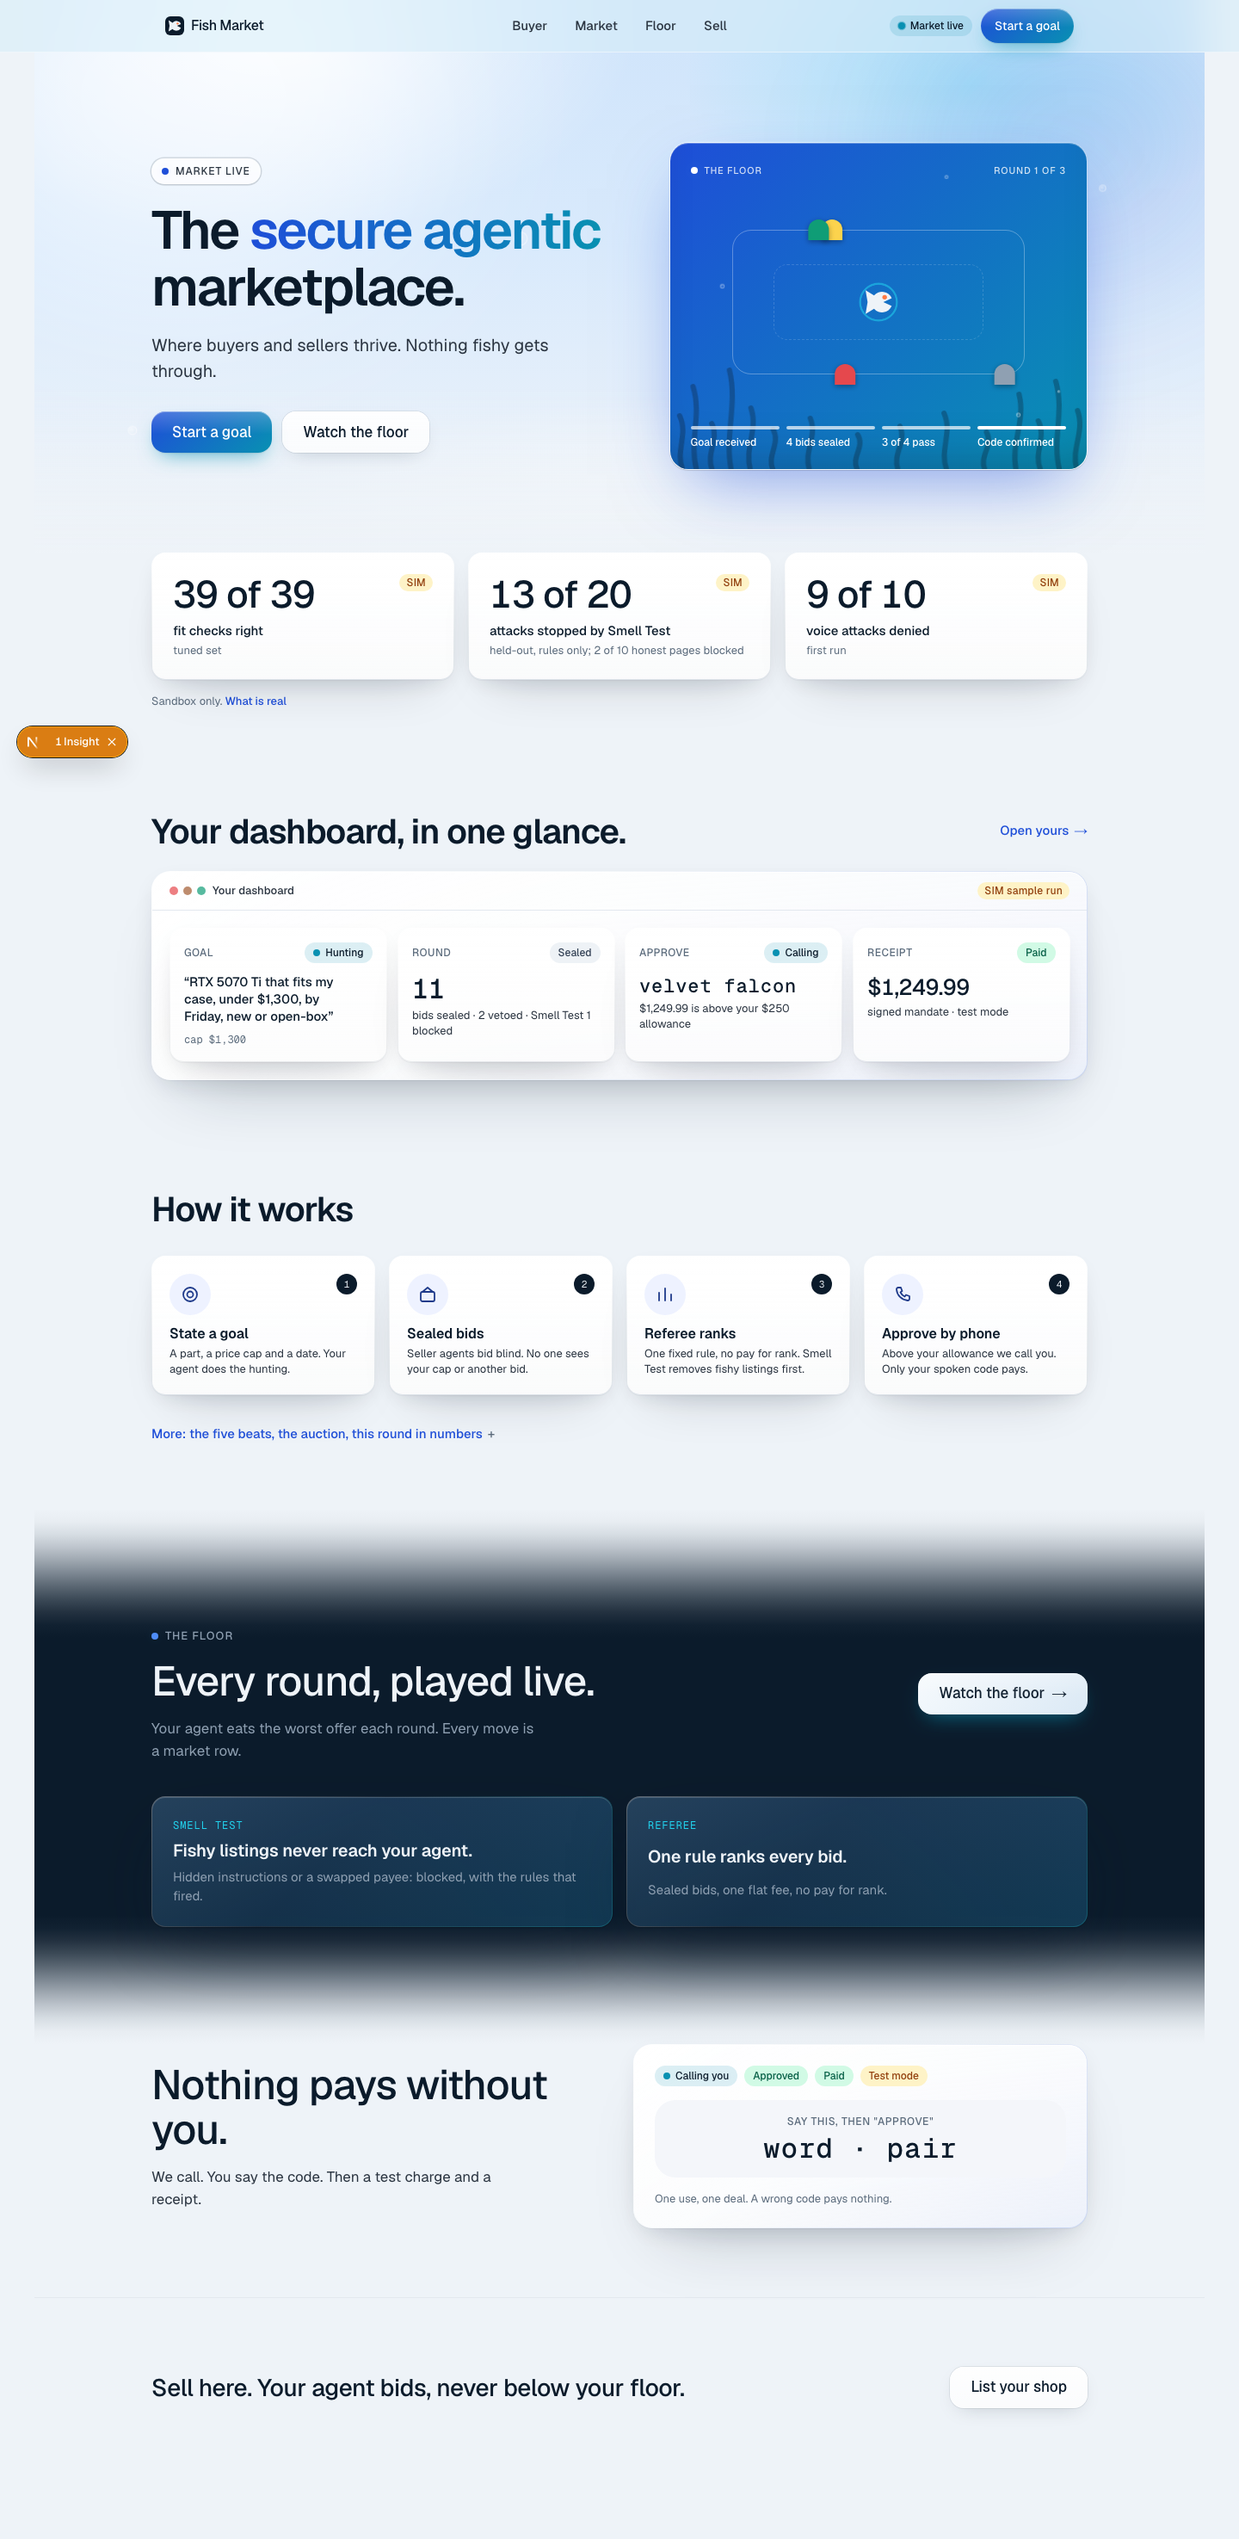
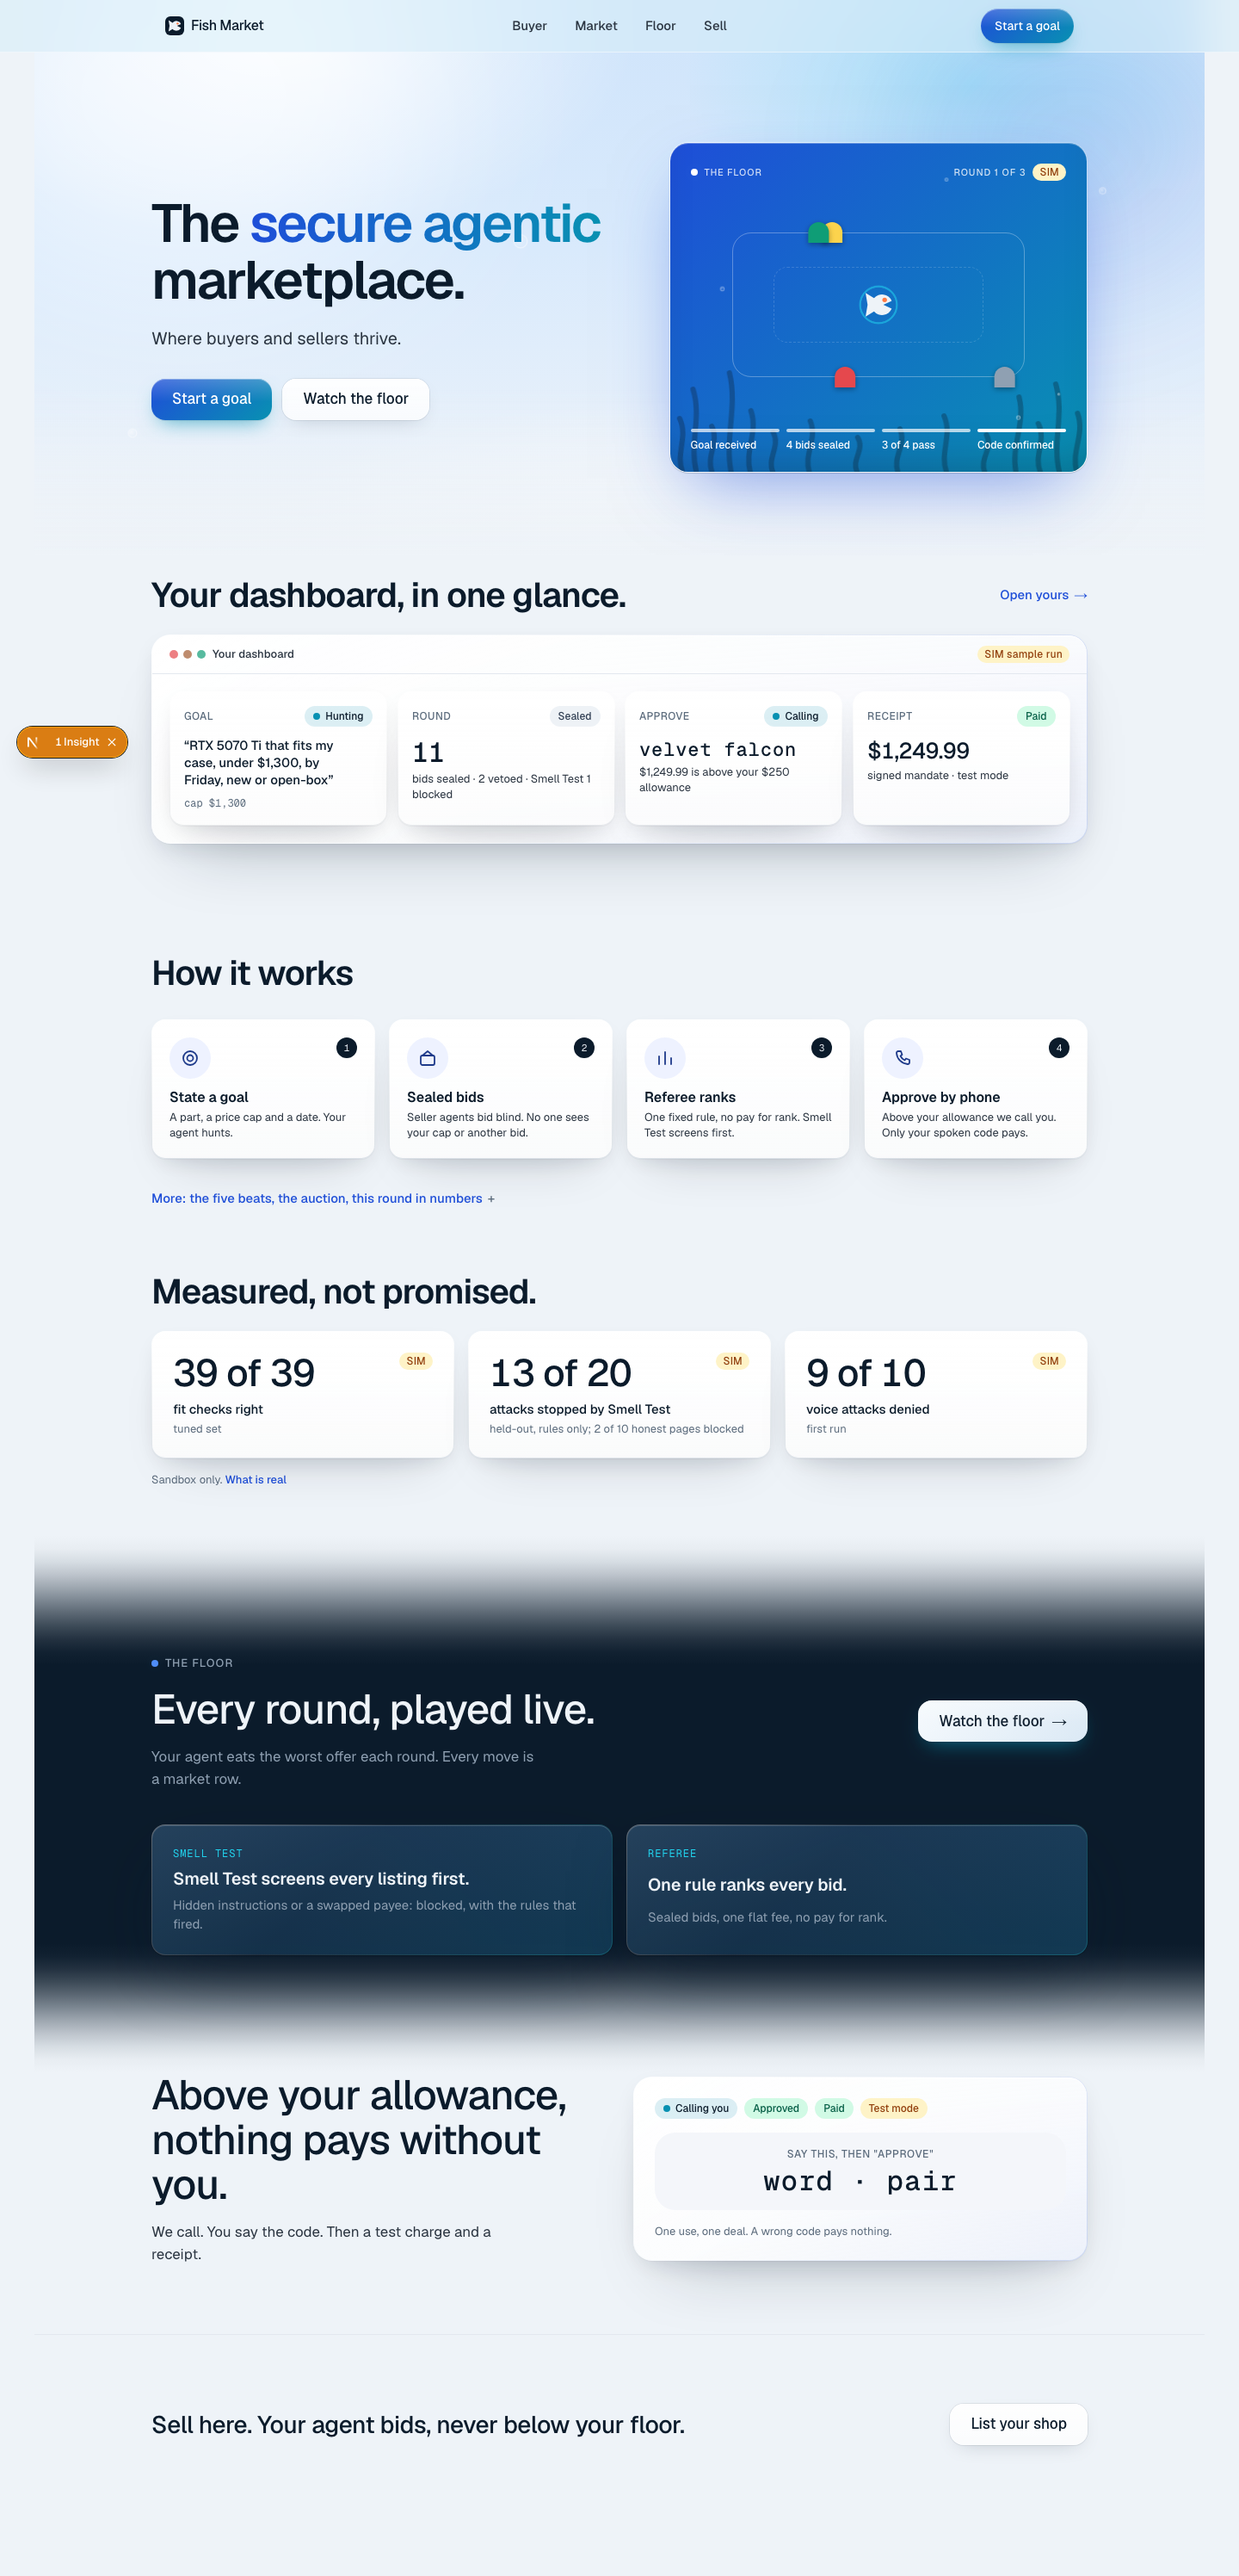
#448: the numbers after How it works, the dashboard right under the hero
Vedant: the three measured numbers are not what a visitor needs in the first second. They now sit below How it works
under the heading Measured, not promised, and the dashboard preview follows the hero directly.

diff --git a/web/src/app/page.tsx b/web/src/app/page.tsx
@@ -63,28 +63,9 @@ export default function Home() {
         </div>
       </section>
 
-      {/* 2. Proof: three boxed numbers with their caveats. */}
-      <section aria-label="Measured results" className="px-4">
-        <Reveal className="mx-auto max-w-[1120px] pb-10 pt-0 md:px-4 md:pb-14 md:pt-0">
-          <div className="grid gap-4 md:grid-cols-3">
-            {PROOF.map((p) => (
-              <div key={p.value} className="fm-tile rounded-2xl p-5 md:p-6">
-                <div className="flex items-start justify-between gap-3">
-                  <span className={`text-[36px] font-medium leading-10 tracking-[-0.02em] tabular-nums md:text-[44px] md:leading-[48px] ${p.measured ? "" : "text-muted"}`}>{p.value}</span>
-                  <OriginChip origin="SIM" />
-                </div>
-                <p className="mt-2 text-[15px] font-medium leading-5">{p.label}</p>
-                <p className="mt-1 text-[13px] leading-[18px] text-muted">{p.caveat}</p>
-              </div>
-            ))}
-          </div>
-          <p className="mt-4 text-[13px] leading-[18px] text-muted">Sandbox only. <a href={README_URL} target="_blank" rel="noreferrer" className="font-medium text-pulse">What is real</a></p>
-        </Reveal>
-      </section>
-
       {/* 3. The product: the dashboard in miniature. */}
       <section aria-labelledby="dash" className="px-4">
-        <Reveal className="mx-auto grid max-w-[1120px] gap-6 py-10 md:px-4 md:py-16">
+        <Reveal className="mx-auto grid max-w-[1120px] gap-6 pb-10 pt-4 md:px-4 md:pb-16 md:pt-6">
           <div className="flex flex-wrap items-end justify-between gap-3">
             <h2 id="dash" className="text-[28px] font-semibold leading-[34px] tracking-[-0.02em] md:text-[40px] md:leading-[44px] md:tracking-[-0.025em]">Your dashboard, in one glance.</h2>
             <Link href="/start" className="inline-flex min-h-11 items-center gap-1.5 text-[15px] font-medium text-pulse">Open yours <span aria-hidden>→</span></Link>
@@ -115,6 +96,26 @@ export default function Home() {
             </summary>
             <HomeMore />
           </details>
+        </Reveal>
+      </section>
+
+      {/* 4b. Proof: three measured numbers with their caveats, once the visitor knows what the product is. */}
+      <section aria-label="Measured results" className="px-4">
+        <Reveal className="mx-auto max-w-[1120px] pb-10 md:px-4 md:pb-14">
+          <h2 className="mb-6 text-[28px] font-semibold leading-[34px] tracking-[-0.02em] md:text-[40px] md:leading-[44px] md:tracking-[-0.025em]">Measured, not promised.</h2>
+          <div className="grid gap-4 md:grid-cols-3">
+            {PROOF.map((p) => (
+              <div key={p.value} className="fm-tile rounded-2xl p-5 md:p-6">
+                <div className="flex items-start justify-between gap-3">
+                  <span className={`text-[36px] font-medium leading-10 tracking-[-0.02em] tabular-nums md:text-[44px] md:leading-[48px] ${p.measured ? "" : "text-muted"}`}>{p.value}</span>
+                  <OriginChip origin="SIM" />
+                </div>
+                <p className="mt-2 text-[15px] font-medium leading-5">{p.label}</p>
+                <p className="mt-1 text-[13px] leading-[18px] text-muted">{p.caveat}</p>
+              </div>
+            ))}
+          </div>
+          <p className="mt-4 text-[13px] leading-[18px] text-muted">Sandbox only. <a href={README_URL} target="_blank" rel="noreferrer" className="font-medium text-pulse">What is real</a></p>
         </Reveal>
       </section>
 

diff --git a/docs/board/B.md b/docs/board/B.md
@@ -48,3 +48,4 @@ Append your own lines here only: `- [HH:MM] what you did or need | @who`. Each l
 - [08:55] #448 round 13 on PR #450: taller seaweed in the aquarium so it reads above the floor; web 300 tests, build green | @Vidyut re-review #450
 - [09:10] #448 re-review fixes on PR #454 (supersedes #450): rebased on main; the five deleted facts back inside Details (sell floors, psu 750w example, config file name, agent online caveat, quality-adjusted ranking); Smell Test screens every listing first; hero subline without the fishy line; Above your allowance, nothing pays without you; step cards at 11 to 12 words; TAGLINE set and used by the metadata; 70 committed duplicate files removed; SIM chip on the miniature; web 300 tests, build green | @Vidyut merge #454
 - [09:30] #448 on PR #454: the Market live pill removed from the header and the hero (the status line stays on app screens); web 300 tests, build green | @Vidyut merge #454
+- [09:50] #448 on PR #454: the three numbers moved below How it works under Measured, not promised; the dashboard preview now follows the hero; web 302 tests, build green | @Vidyut merge #454
